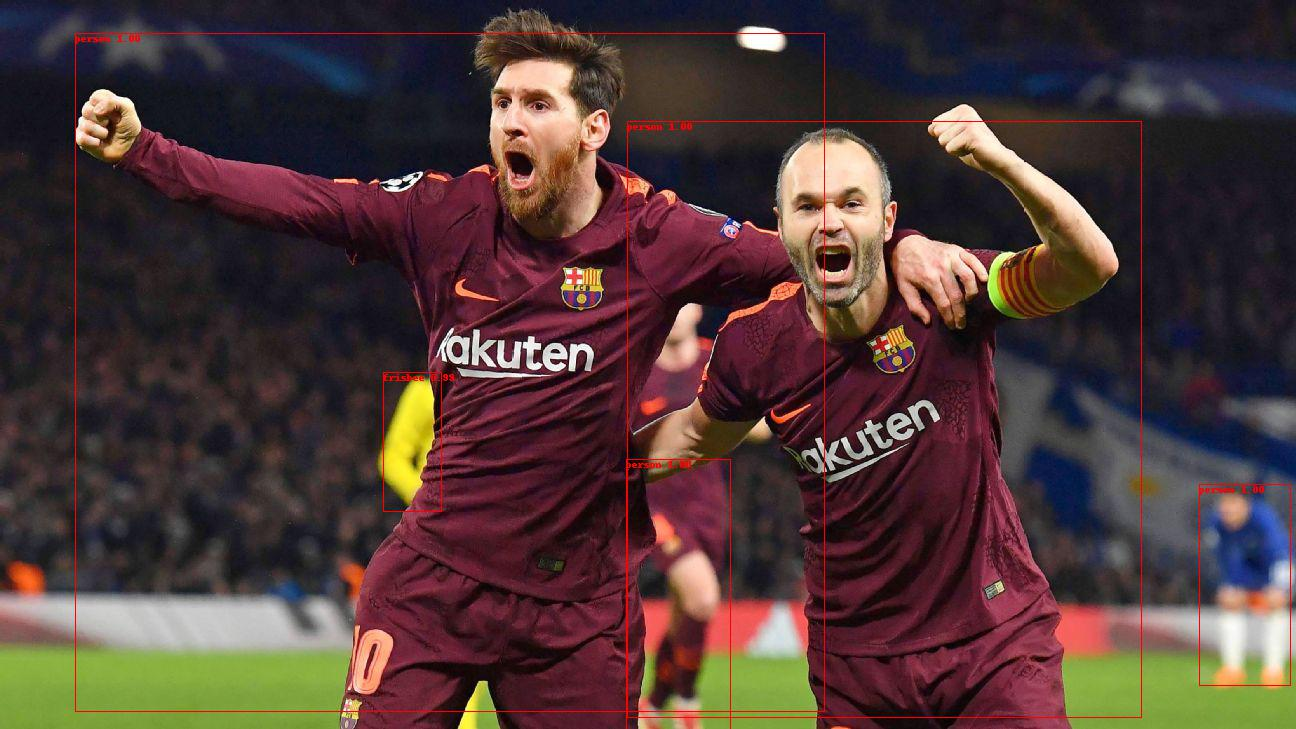
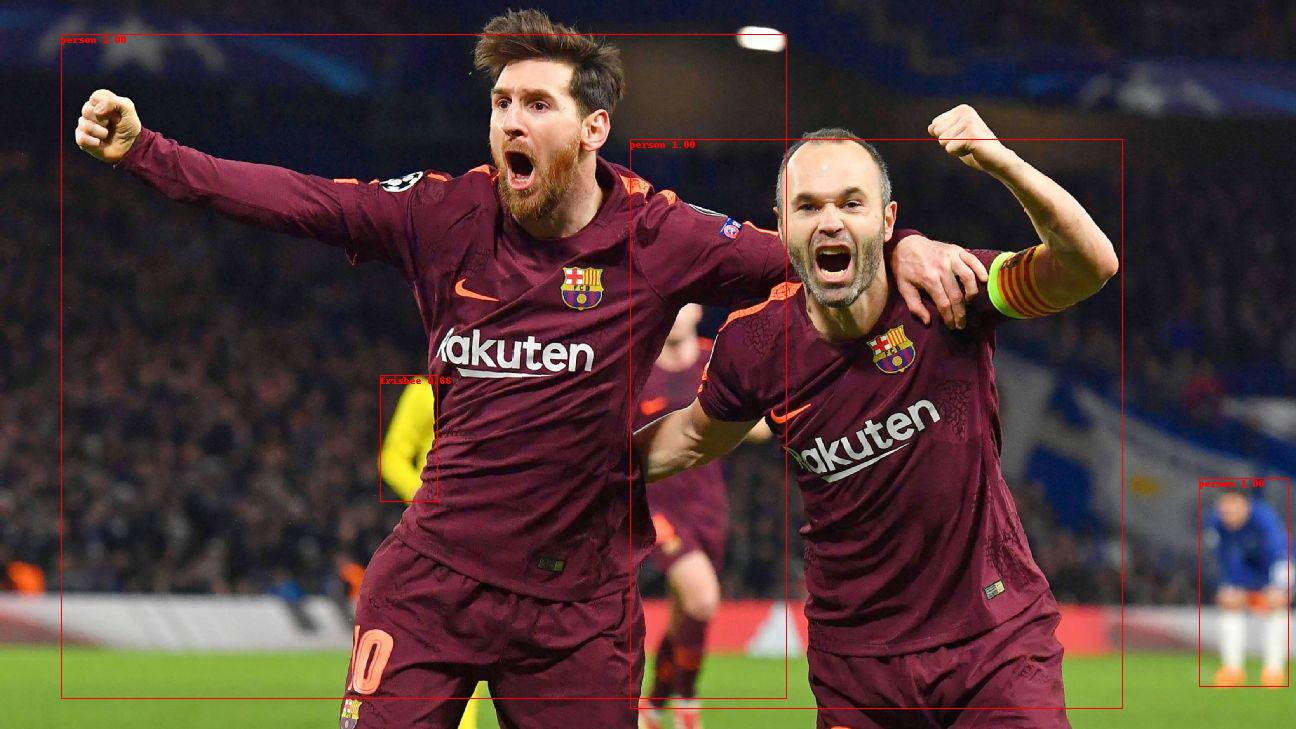
update comment

diff --git a/src/model.py b/src/model.py
@@ -11,14 +11,10 @@ class YOLOv3(nn.Module):
   """YOLO v3 model"""
 
   def __init__(self, cfgfile, input_dim):
-    """Init model
+    """
     @args
       cfgfile: (str) path to yolo v3 config file
       input_dim: (int) 
-    @return
-      detections: (torch.Tensor) detection result, with size [batch_size, 10647, 85]
-        10647 = 3549 * 3 (scales)
-        85 = 80 (classes) + 4 (offsets) + 1 (objectness)
     """
     super(YOLOv3, self).__init__()
     self.blocks = parse_cfg(cfgfile)
@@ -120,7 +116,18 @@ class YOLOv3(nn.Module):
     return module_list
 
   def forward(self, x):
-    detections = []  # detection results
+    """
+    Forwarad pass of YOLO v3
+
+    @args
+      x: (torch.Tensor) input Tensor, with size [batch_size, C, H, W]
+    
+    @return
+      detections: (torch.Tensor) detection in different scales, with size [batch_size, # bboxes, 85]
+        # bboxes => 13 * 13 (# grid size in last feature map) * 3 (# anchor boxes) * 3 (# scales)
+        85 => [4 offsets, objectness score, 80 class score]
+    """
+    detections = torch.Tensor()  # detection results
     outputs = dict()   # output cache for route layer
 
     for i, block in enumerate(self.blocks):
@@ -152,7 +159,7 @@ class YOLOv3(nn.Module):
 
       elif block['type'] == 'yolo':
         x = self.module_list[i](x)
-        detections = x if len(detections) == 0 else torch.cat((detections, x), 1)
+        detections = x if len(detections.size()) == 1 else torch.cat((detections, x), 1)
         outputs[i] = outputs[i-1]  # skip
 
     return detections
@@ -224,20 +231,21 @@ class YOLOv3(nn.Module):
 def nms(prediction, num_classes, conf_thresh=0.5, nms_thresh=0.4):
   """
   Perform Non-maximum Suppression
-    1. Filter low confidence prediction
+    1. Filter background
     2. Get prediction with particular class
     3. Sort by confidence
     4. Suppress non-max prediction
 
   @args
-    prediction: (torch.Tensor) prediction feature map
+    prediction: (torch.Tensor) prediction feature map, with size [batch_idx, # bboxes, 85]
+      85 => [4 offsets, objectness score, 80 class score]
     num_class: (int)
-    conf_thresh: (float) confidence threshold, above which prediction considered valid, default 0.5
+    conf_thresh: (float) fore-ground confidence threshold, default 0.5
     nms_thresh: (float) nms threshold, default 0.4
 
   @return
     output: (torch.Tensor) detection result with with [# bboxes, 8]
-      8 = [image batch idx, 4 offsets, objectness, max conf, class idx]
+      8 => [image batch idx, 4 offsets, objectness, max conf, class idx]
   """
   batch_size = prediction.size(0)
   conf_mask = (prediction[..., 4] > conf_thresh).float().unsqueeze(2)
@@ -305,7 +313,7 @@ def get_test_input():
 
 
 if __name__ == '__main__':
-  net = YOLOv3('../static/yolov3.cfg', 320)  # fix const
+  net = YOLOv3('../static/yolov3.cfg', 320)
   net.load_weights('../static/yolov3.weights')
   net = net.cuda()
   input = get_test_input().cuda()

diff --git a/src/layers.py b/src/layers.py
@@ -26,15 +26,15 @@ class EmptyLayer(nn.Module):
 
 
 class DetectionLayer(nn.Module):
-  """Detection layer
-
-  @args
-    anchors: (list) list of anchor box sizes tuple
-    num_classes: (int)
-    input_dim: (int)
-  """
+  """Detection layer"""
 
   def __init__(self, anchors, num_classes, input_dim):
+    """
+    @args
+      anchors: (list) list of anchor box sizes tuple
+      num_classes: (int)
+      input_dim: (int)
+    """
     super(DetectionLayer, self).__init__()
     self.anchors = anchors
     self.num_classes = num_classes
@@ -51,14 +51,17 @@ class DetectionLayer(nn.Module):
          bw = pw * exp(tw)
          bh = ph * exp(th)
       4. Softmax
-    
+
     @args
       prediction: (torch.Tensor) detection result feature map, with size [B, 85*3, 13, 13]
-    
+        85 => [4 offsets, objectness score, 80 class score]
+        3 => # anchor boxes pixel-wise
+        13 => grid size in last feature map
+
     @return
       prediction: (torch.Tensor) transformed feature map, with size [B, 13*13*3, 85]
     """
-    batch_size, _, grid_size, _  = prediction.size()
+    batch_size, _, grid_size, _ = prediction.size()
     stride = self.input_dim // grid_size  # no pooling used, stride is the only downsample
     num_attrs = 5 + self.num_classes  # tx, ty, tw, th, p0
     num_anchors = len(self.anchors)
@@ -68,16 +71,16 @@ class DetectionLayer(nn.Module):
     # Re-organize
     # [batch_size, 85*3, 13, 13] => [batch_size, 85*3, 13*13] => [batch_size, 3*13*13, 85]
     prediction = prediction.view(batch_size, num_attrs*num_anchors, grid_size*grid_size)
-    prediction = prediction.transpose(1,2).contiguous()
+    prediction = prediction.transpose(1, 2).contiguous()
     prediction = prediction.view(batch_size, grid_size*grid_size*num_anchors, num_attrs)
 
     # Transform center coordinates
     # x_y_offset = [[0,0]*3, [0,1]*3, [0,2]*3, ..., [12,12]*3]
     grid_len = np.arange(grid_size)
     a, b = np.meshgrid(grid_len, grid_len)
-    x_offset = torch.FloatTensor(a).view(-1,1).cuda()
-    y_offset = torch.FloatTensor(b).view(-1,1).cuda()
-    x_y_offset = torch.cat((x_offset, y_offset), 1).repeat(1,num_anchors).view(-1,2).unsqueeze(0)
+    x_offset = torch.FloatTensor(a).view(-1, 1).cuda()
+    y_offset = torch.FloatTensor(b).view(-1, 1).cuda()
+    x_y_offset = torch.cat((x_offset, y_offset), 1).repeat(1, num_anchors).view(-1, 2).unsqueeze(0)
     prediction[..., 0:2] = F.sigmoid(prediction[..., 0:2]) + x_y_offset[..., 0:2]  # bxy = sigmoid(txy) + cxy
 
     # Log transform
@@ -89,7 +92,6 @@ class DetectionLayer(nn.Module):
     prediction[..., :4] *= stride
 
     # Softmax
-    prediction[...,4:] = F.sigmoid((prediction[..., 4:]))
+    prediction[..., 4:] = F.sigmoid((prediction[..., 4:]))
 
     return prediction
-

diff --git a/src/config.py b/src/config.py
@@ -1,19 +1,21 @@
-datasets = {
-  'coco': {
-    'num_classes': 80,
-    'class_names': ['person', 'bicycle', 'car', 'motorbike', 'aeroplane', 'bus', 'train', 'truck', 'boat', 'traffic' 'light', 'fire hydrant', 'stop sign', 'parking meter', 'bench', 'bird', 'cat', 'dog', 'horse', 'sheep', 'cow', 'elephant', 'bear', 'zebra', 'giraffe', 'backpack', 'umbrella', 'handbag', 'tie', 'suitcase', 'frisbee', 'skis', 'snowboard', 'sports ball', 'kite', 'baseball bat', 'baseball glove', 'skateboard', 'surfboard', 'tennis racket', 'bottle', 'wine glass', 'cup', 'fork', 'knife', 'spoon', 'bowl', 'banana', 'apple', 'sandwich', 'orange', 'broccoli', 'carrot', 'hot dog', 'pizza', 'donut', 'cake', 'chair', 'sofa', 'pottedplant', 'bed', 'diningtable', 'toilet', 'tvmonitor', 'laptop', 'mouse', 'remote', 'keyboard', 'cell phone', 'microwave', 'oven', 'toaster', 'sink', 'refrigerator', 'book', 'clock', 'vase', 'scissors', 'teddy bear', 'hair drier', 'toothbrush']
-  }
-}
+import os
+opj = os.path.join
 
+ROOT_DIR = '/media/data_1/home/penggao/penggao/detection/yolo3.pytorch'
+
+datasets = {
+    'coco': {
+        'num_classes': 80,
+        'class_names': ['person', 'bicycle', 'car', 'motorbike', 'aeroplane', 'bus', 'train', 'truck', 'boat', 'traffic' 'light', 'fire hydrant', 'stop sign', 'parking meter', 'bench', 'bird', 'cat', 'dog', 'horse', 'sheep', 'cow', 'elephant', 'bear', 'zebra', 'giraffe', 'backpack', 'umbrella', 'handbag', 'tie', 'suitcase', 'frisbee', 'skis', 'snowboard', 'sports ball', 'kite', 'baseball bat', 'baseball glove', 'skateboard', 'surfboard', 'tennis racket', 'bottle', 'wine glass', 'cup', 'fork', 'knife', 'spoon', 'bowl', 'banana', 'apple', 'sandwich', 'orange', 'broccoli', 'carrot', 'hot dog', 'pizza', 'donut', 'cake', 'chair', 'sofa', 'pottedplant', 'bed', 'diningtable', 'toilet', 'tvmonitor', 'laptop', 'mouse', 'remote', 'keyboard', 'cell phone', 'microwave', 'oven', 'toaster', 'sink', 'refrigerator', 'book', 'clock', 'vase', 'scissors', 'teddy bear', 'hair drier', 'toothbrush']
+    }
+}
 
 network = {
-  'weights': '/media/data_1/home/penggao/penggao/detection/ecr23.yolo3/static/yolov3.weights',
-  'cfg': '/media/data_1/home/penggao/penggao/detection/ecr23.yolo3/static/yolov3.cfg'
+    'weights': opj(ROOT_DIR, 'static/yolov3.weights'),
+    'cfg': opj(ROOT_DIR, 'static/yolov3.cfg')
 }
-
 
 test = {
-  'images_dir': '/media/data_1/home/penggao/penggao/detection/ecr23.yolo3/assets/imgs',
-  'result_dir': '/media/data_1/home/penggao/penggao/detection/ecr23.yolo3/assets/dets'
+    'images_dir': opj(ROOT_DIR, 'assets/imgs'),
+    'result_dir': opj(ROOT_DIR, 'assets/dets')
 }
-

diff --git a/src/utils.py b/src/utils.py
@@ -1,12 +1,10 @@
 import os
 import torch
 import numpy as np
-from torchvision import transforms
 from PIL import Image, ImageFont, ImageDraw, ImageEnhance
 opj = os.path.join
 
 import config
-from dataset import TestDataset
 
 def parse_cfg(cfgfile):
   """
@@ -84,30 +82,6 @@ def IoU(box1, box2):
   return inter_area / (b1_area + b2_area - inter_area)
 
 
-def prepare_eval_dataset(path, reso, batch_size=1):
-  """
-  Prepare dataset for evaluation
-
-  @args
-    path: (str) path to images
-    reso: (int) evaluation image resolution
-    batch_size: (int) default 1
-
-  @returns
-    img_datasets: (torchvision.datasets) test image datasets
-    dataloader: (DataLoader)
-  """
-  transform = transforms.Compose([
-      transforms.Resize(size=(reso, reso), interpolation=3),
-      transforms.ToTensor()
-  ])
-
-  img_datasets = TestDataset(path, transform)
-  dataloader = torch.utils.data.DataLoader(img_datasets, batch_size=batch_size, num_workers=4)
-
-  return img_datasets, dataloader
-
-
 def save_detection(img_path, detection, dets_dir, reso):
   """
   Draw and save detection result
@@ -124,7 +98,7 @@ def save_detection(img_path, detection, dets_dir, reso):
 
   img = Image.open(img_path)
   w, h = img.size
-  h_ratio = h / reso  # TODO: fix consts
+  h_ratio = h / reso
   w_ratio = w / reso
   h_ratio, w_ratio
   draw = ImageDraw.Draw(img)

diff --git a/src/test.py b/src/test.py
@@ -1,14 +1,15 @@
 import os
 import argparse
 import warnings
+from tqdm import tqdm
 from PIL import Image
 opj = os.path.join
 warnings.filterwarnings("ignore")
 
 import config
 from model import YOLOv3, nms
-from utils import prepare_eval_dataset, save_detection
-
+from utils import save_detection
+from dataset import prepare_eval_dataset
 
 
 def parse_arg():
@@ -28,18 +29,17 @@ if __name__ == '__main__':
   assert args.reso % 32 == 0, "Resolution must be interger times of 32"
 
   print("\n==> Loading network ...\n")
-  yolo = YOLOv3(cfg, args.reso)  # TODO: input dim
+  yolo = YOLOv3(cfg, args.reso)
   yolo.load_weights(weights)
   yolo = yolo.cuda()
 
   print("\n==> Loading data ...\n")
   img_datasets, dataloader = prepare_eval_dataset(images, args.reso)
-  print("Test images number:", len(img_datasets))
+  print("# Test images:", len(img_datasets))
 
   print("\n==> Evaluation ...\n")
   yolo.eval()
-  # tbar = tqdm(dataloader, ascii=True)
-  for batch_idx, (inputs, _) in enumerate(dataloader):
+  for batch_idx, (inputs, _) in enumerate(tqdm(dataloader, ncols=80)):
     inputs = inputs.cuda()
     prediction = yolo(inputs)
     detection = nms(prediction, num_classes)

diff --git a/src/dataset.py b/src/dataset.py
@@ -36,3 +36,29 @@ class TestDataset(torch.utils.data.dataset.Dataset):
   
   def __len__(self):
     return len(self.imgs_list)
+
+
+def prepare_eval_dataset(path, reso, batch_size=1):
+  """
+  Prepare dataset for evaluation
+
+  @args
+    path: (str) path to images
+    reso: (int) evaluation image resolution
+    batch_size: (int) default 1
+
+  @returns
+    img_datasets: (torchvision.datasets) test image datasets
+    dataloader: (DataLoader)
+  """
+  transform = transforms.Compose([
+      transforms.Resize(size=(reso, reso), interpolation=3),
+      transforms.ToTensor()
+  ])
+
+  img_datasets = TestDataset(path, transform)
+  dataloader = torch.utils.data.DataLoader(img_datasets, batch_size=batch_size, num_workers=4)
+
+  return img_datasets, dataloader
+
+

diff --git a/README.md b/README.md
@@ -38,7 +38,7 @@ To be implemented
 ### How to run this code
 
 1. Download pretrained YOLO v3 weights [here](https://pjreddie.com/media/files/yolov3.weights) and move it to `static/yolov3.weights`
-2. Run `python test.py --save`
+2. Run `python test.py`
 3. You can sepcify detection images directory and detection results directory in `config.py`
 
 ### Inputs arguments
@@ -47,7 +47,7 @@ To be implemented
 
 ### Evaluation example
 
-![](https://raw.githubusercontent.com/ECer23/yolov3.pytorch/master/assets/dets/person.jpg)
+![](https://raw.githubusercontent.com/ECer23/yolov3.pytorch/master/assets/dets/messi.jpg)
 
 ## ✅ TODO
 
